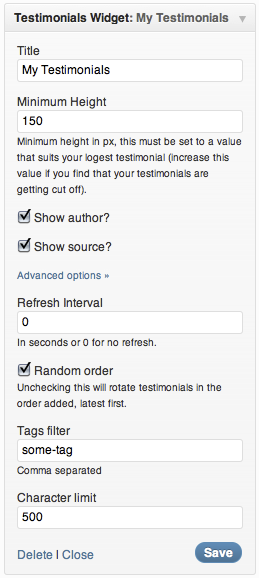
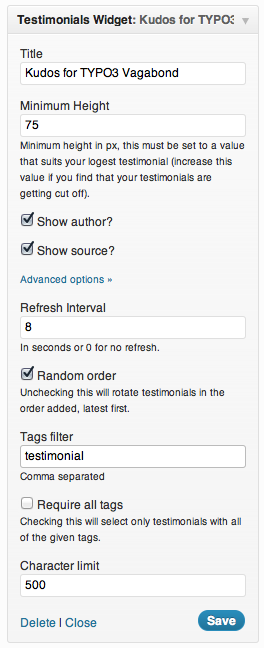
* Allow testimonials to have multiple tags * Show only quotes with all tags
git-svn-id: https://plugins.svn.wordpress.org/testimonials-widget/trunk@507541 b8457f37-d9ea-0310-8a92-e5e31aec5664

diff --git a/testimonials-widget-widget.php b/testimonials-widget-widget.php
@@ -42,11 +42,12 @@ class testimonials_widget extends WP_Widget {
 		$show_author = $instance['show_author'];
 		$show_source = $instance['show_source'];
 		$random_order = $instance['random_order'];
+		$tags_all = $instance['tags_all'];
 		$refresh_interval = $instance['refresh_interval'];
 		$char_limit = $instance['char_limit'];
 		$tags = $instance['tags'];
 
-		$testimonials = testimonialswidget_display_testimonials($title, $random_order, $min_height, $refresh_interval, $show_source, $show_author, $tags, $char_limit, $this->number);
+		$testimonials = testimonialswidget_display_testimonials($title, $random_order, $min_height, $refresh_interval, $show_source, $show_author, $tags, $char_limit, $this->number, $tags_all);
 
 		/* Before widget (defined by themes). */
 			echo $before_widget;
@@ -74,6 +75,7 @@ class testimonials_widget extends WP_Widget {
 		$instance['show_source'] = (isset($new_instance['show_source']) && $new_instance['show_source'])?1:0;
 		$instance['refresh_interval'] = strip_tags(stripslashes($new_instance['refresh_interval']));
 		$instance['random_order'] = (isset($new_instance['random_order']) && $new_instance['random_order'])?1:0;
+		$instance['tags_all'] = (isset($new_instance['tags_all']) && $new_instance['tags_all'])?1:0;
 		$instance['tags'] = strip_tags(stripslashes($new_instance['tags']));
 		$instance['char_limit'] = strip_tags(stripslashes($new_instance['char_limit']));
 		if(!$instance['char_limit'])
@@ -99,6 +101,7 @@ class testimonials_widget extends WP_Widget {
 			'show_author' => 1,
 			'show_source' => 1,
 			'random_order' => 1,
+			'tags_all' => 0,
 			'refresh_interval' => 10,
 			'tags' => '',
 			'char_limit' => 500
@@ -106,13 +109,16 @@ class testimonials_widget extends WP_Widget {
 		$instance = wp_parse_args( (array) $instance, $defaults );
 
 		// Now we define the display of widget options menu
-		$show_author_checked = $show_source_checked	= $random_order_checked = '';
+		$show_author_checked = $show_source_checked	= $random_order_checked	= $tags_all_checked = '';
+
         if($instance['show_author'])
         	$show_author_checked = ' checked="checked"';
         if($instance['show_source'])
         	$show_source_checked = ' checked="checked"';
         if($instance['random_order'])
         	$random_order_checked = ' checked="checked"';
+        if($instance['tags_all'])
+        	$tags_all_checked = ' checked="checked"';
 
 		echo '<p><label for="'.$this->get_field_id( 'title' ).'">'.__('Title', 'testimonials-widget').' </label><input class="widefat" type="text" id="'.$this->get_field_id( 'title' ).'" name="'.$this->get_field_name( 'title' ).'" value="'.htmlspecialchars($instance['title'], ENT_QUOTES).'" /></p>';
 		echo '<p><label for="'.$this->get_field_id( 'min_height' ).'">'.__('Minimum Height', 'testimonials-widget').' </label><input class="widefat" type="text" id="'.$this->get_field_id( 'min_height' ).'" name="'.$this->get_field_name( 'min_height' ).'" value="'.htmlspecialchars($instance['min_height'], ENT_QUOTES).'" /><br/><span class="setting-description"><small>'.__('Minimum height in px, this must be set to a value that suits your logest testimonial (increase this value if you find that your testimonials are getting cut off).', 'testimonials-widget').'</small></span></p>';
@@ -123,6 +129,7 @@ class testimonials_widget extends WP_Widget {
 		echo '<p><label for="'.$this->get_field_id( 'refresh_interval' ).'">'.__('Refresh Interval', 'testimonials-widget').' </label><input class="widefat" type="text" id="'.$this->get_field_id( 'refresh_interval' ).'" name="'.$this->get_field_name( 'refresh_interval' ).'" value="'.htmlspecialchars($instance['refresh_interval'], ENT_QUOTES).'" /><br/><span class="setting-description"><small>'.__('In seconds or 0 for no refresh.', 'testimonials-widget').'</small></span></p>';
 		echo '<p><input type="checkbox" id="'.$this->get_field_id( 'random_order' ).'" name="'.$this->get_field_name( 'random_order' ).'" value="1"'.$random_order_checked.' /> <label for="'.$this->get_field_id( 'random_order' ).'">'.__('Random order', 'testimonials-widget').'</label><br/><span class="setting-description"><small>'.__('Unchecking this will rotate testimonials in the order added, latest first.', 'testimonials-widget').'</small></span></p>';
 		echo '<p><label for="'.$this->get_field_id( 'tags' ).'">'.__('Tags filter', 'testimonials-widget').' </label><input class="widefat" type="text" id="'.$this->get_field_id( 'tags' ).'" name="'.$this->get_field_name( 'tags' ).'" value="'.htmlspecialchars($instance['tags'], ENT_QUOTES).'" /><br/><span class="setting-description"><small>'.__('Comma separated', 'testimonials-widget').'</small></span></p>';
+		echo '<p><input type="checkbox" id="'.$this->get_field_id( 'tags_all' ).'" name="'.$this->get_field_name( 'tags_all' ).'" value="1"'.$tags_all_checked.' /> <label for="'.$this->get_field_id( 'tags_all' ).'">'.__('Require all tags', 'testimonials-widget').'</label><br/><span class="setting-description"><small>'.__('Checking this will select only testimonials with all of the given tags.', 'testimonials-widget').'</small></span></p>';
 		echo '<p><label for="'.$this->get_field_id( 'char_limit' ).'">'.__('Character limit', 'testimonials-widget').' </label><input class="widefat" type="text" id="'.$this->get_field_id( 'char_limit' ).'" name="'.$this->get_field_name( 'char_limit' ).'" value="'.htmlspecialchars($instance['char_limit'], ENT_QUOTES).'" /></p>';
 		echo '</div>';
 	}

diff --git a/testimonials-widget.php b/testimonials-widget.php
@@ -2,7 +2,7 @@
 /*
 Plugin Name: Testimonials Widget
 Description: Testimonial widget plugin helps you display testimonials in a sidebar on your WordPress blog.
-Version: 0.2.2
+Version: 0.2.3
 Author: comprock, j0hnsmith
 License: GPL2
 */
@@ -41,7 +41,7 @@ require_once('testimonials-widget-widget.php');
 require_once('testimonials-widget-admin.php');
 
 
-function testimonialswidget_display_testimonials($title = '', $random = 1, $min_height, $refresh_interval = 10, $show_source = 0, $show_author = 1, $tags = '', $char_limit = 500, $widget_number = '') {
+function testimonialswidget_display_testimonials($title = '', $random = 1, $min_height, $refresh_interval = 10, $show_source = 0, $show_author = 1, $tags = '', $char_limit = 500, $widget_number = '', $tags_all = 0) {
 	$conditions = " WHERE public = 'yes'";
 
 	if(char_limit && is_numeric($char_limit)) {
@@ -55,8 +55,14 @@ function testimonialswidget_display_testimonials($title = '', $random = 1, $min_
 		$tag_conditions = '';
 		foreach($taglist as $tag) {
 			$tag = mysql_real_escape_string(strip_tags(trim($tag)));
-			if($tag_conditions) $tag_conditions .= " OR ";
-			$tag_conditions .= "tags = '{$tag}'";
+			if($tag_conditions) {
+				if ( $tags_all ) {
+					$tag_conditions .= ' AND ';
+				} else {
+					$tag_conditions .= ' OR ';
+				}
+			}
+			$tag_conditions .= "FIND_IN_SET('{$tag}', tags)";
 		}
 		$conditions .= " AND ({$tag_conditions})";
 	}
